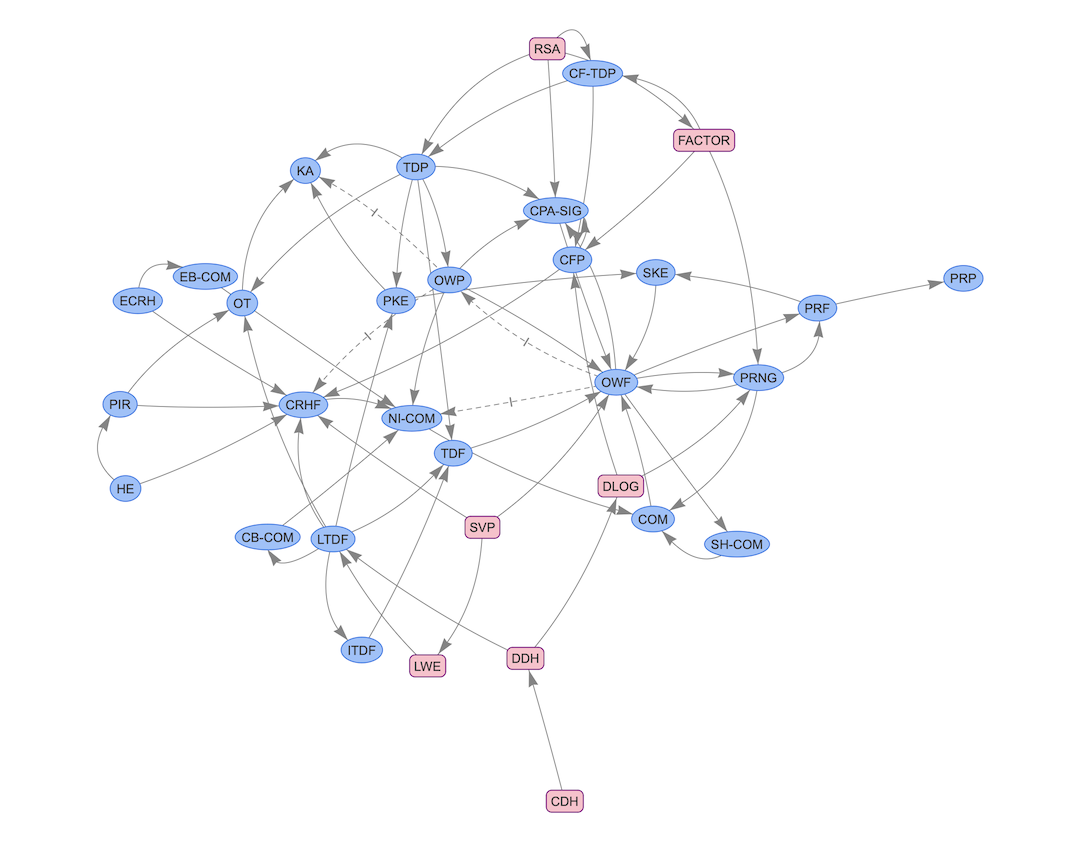
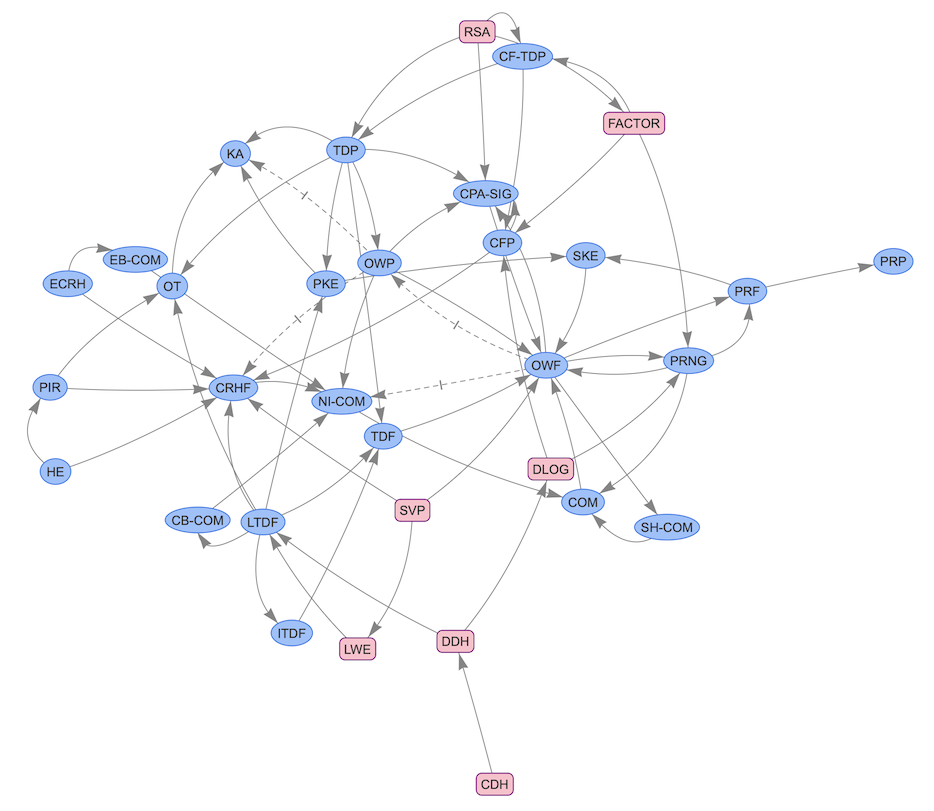
README: Update image size

diff --git a/README.md b/README.md
@@ -1,4 +1,4 @@
 # crypto-graph
 Visualizing the relations between cryptographic primitives.
 
-![Image of Crypto Graph](cryptograph.png)
+<img src="cryptograph.png" alt="Image of Crypto Graph" width="480">
